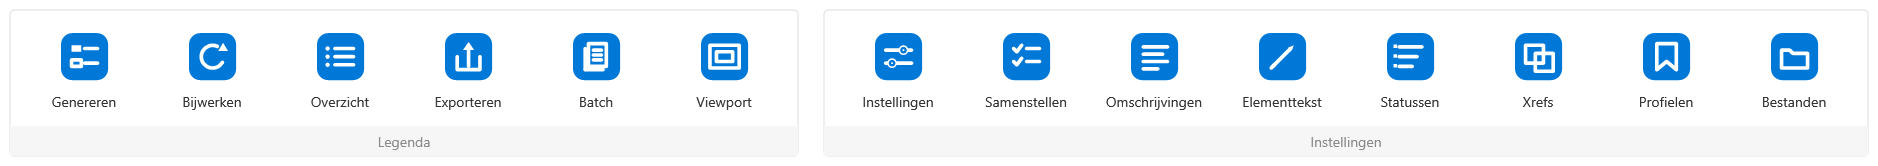
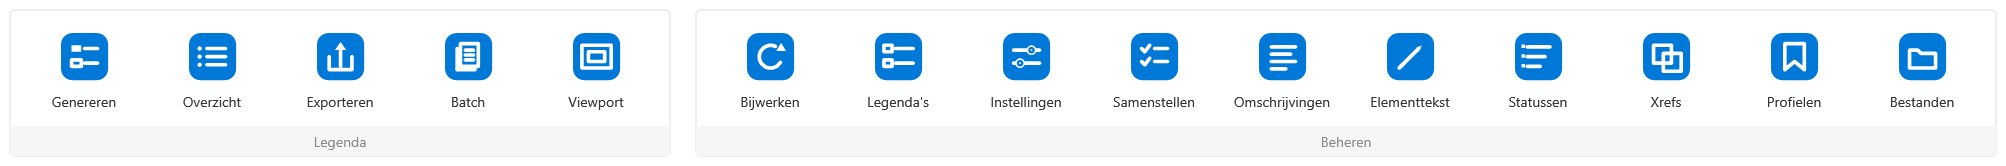
Versie 1.14.0: documentatie, changelog, lint en tests bijwerken

diff --git a/tests/NlcsLegenda.Core.Tests/LegendDomainTests.cs b/tests/NlcsLegenda.Core.Tests/LegendDomainTests.cs
@@ -1,0 +1,73 @@
+using NlcsLegenda.Core;
+using Xunit;
+
+namespace NlcsLegenda.Core.Tests;
+
+public class LegendDomainTests
+{
+    [Fact]
+    public void ManualEntry_Clone_IsIndependent()
+    {
+        var a = new ManualEntry { Layer = "N-WE-VH-X-G", Type = NlcsDrawType.Vlakvulling, Description = "A", SymbolBlock = "B" };
+        var b = a.Clone();
+        b.Description = "B";
+        b.Type = NlcsDrawType.Symbool;
+        Assert.Equal("A", a.Description);
+        Assert.Equal(NlcsDrawType.Vlakvulling, a.Type);
+    }
+
+    [Fact]
+    public void CustomStatus_Clone_IsIndependent()
+    {
+        var a = new CustomStatus { Name = "S", Members = { "x", "y" } };
+        var b = a.Clone();
+        b.Members.Add("z");
+        b.Name = "T";
+        Assert.Equal(2, a.Members.Count);
+        Assert.Equal("S", a.Name);
+    }
+
+    [Theory]
+    [InlineData(LegendScope.WholeDrawing, "hele tekening")]
+    [InlineData(LegendScope.Selection, "selectie")]
+    public void Scope_ToDisplay(LegendScope scope, string expected) =>
+        Assert.Equal(expected, scope.ToDisplay());
+
+    [Fact]
+    public void Registry_MixedScopes_Roundtrip()
+    {
+        var reg = new LegendRegistry();
+        reg.Add(new LegendDefinition { Name = "Heel", Scope = LegendScope.WholeDrawing, GroupName = "g1" });
+        reg.Add(new LegendDefinition
+        {
+            Name = "Sel",
+            Scope = LegendScope.Selection,
+            GroupName = "g2",
+            SourceHandles = { "A", "1B", "2C3" }
+        });
+
+        Assert.True(LegendRegistry.TryParse(reg.ToJson(), out var restored, out _));
+        Assert.Equal(LegendScope.WholeDrawing, restored.Legends[0].Scope);
+        Assert.Equal(LegendScope.Selection, restored.Legends[1].Scope);
+        Assert.Equal(3, restored.Legends[1].SourceHandles.Count);
+    }
+
+    [Fact]
+    public void Registry_NormalizesNullCollections()
+    {
+        // JSON zonder legends-array en zonder sourceHandles.
+        const string json = """{ "schemaVersion": 1 }""";
+        Assert.True(LegendRegistry.TryParse(json, out var reg, out _));
+        Assert.NotNull(reg.Legends);
+        Assert.Empty(reg.Legends);
+    }
+
+    [Fact]
+    public void Definition_KeepsIdAcrossRename()
+    {
+        var def = new LegendDefinition { Name = "Oud", GroupName = "g" };
+        var id = def.Id;
+        def.Name = "Nieuw";
+        Assert.Equal(id, def.Id);
+    }
+}

diff --git a/README.md b/README.md
@@ -14,20 +14,28 @@ zitten en zet daar de bijbehorende legenda bij, in dezelfde stijl.
 ## Zo werkt het
 
 Start `NLCSLEGENDA`. Je kunt eerst nog de schaal of een paar opties zetten; daarna
-hangt de legenda aan je cursor en zet je hem naast de tekening neer. Alles komt als
-losse objecten in de model space, op de eigen NLCS-lagen, dus kleur en lijntype
-kloppen meteen. Wie liever klikt dan typt vindt in het lint een tab **NLCS Legenda**
-met dezelfde functies.
+hangt de legenda aan je cursor en zet je hem naast de tekening neer. Standaard maakt hij
+een legenda van de hele tekening; kies je in het optiemenu `Selecteren`, dan komt er een
+legenda van alleen die selectie. Alles komt als losse objecten in de model space, op de
+eigen NLCS-lagen, dus kleur en lijntype kloppen meteen. Wie liever klikt dan typt vindt
+in het lint een tab **NLCS Legenda** met dezelfde functies.
 
-Is het ontwerp veranderd, dan tekent `NLCSLEGENDAUPDATE` de legenda opnieuw op
-precies dezelfde plek. `NLCSLEGENDAVIEWPORT` maakt er in de paper space een viewport
-omheen op de ingestelde schaal.
+Je kunt meerdere legenda's naast elkaar in één tekening hebben, bijvoorbeeld één voor de
+hele tekening en aparte legenda's voor deelgebieden. Elke legenda onthoudt zijn eigen
+bron (hele tekening of selectie) en zijn eigen instellingen. `NLCSLEGENDABEHEER` toont de
+legenda's en laat je ze bijwerken, hernoemen, opzoeken (zoomen) en verwijderen.
 
-De teksten en opmaak liggen niet vast. Bijna alles is aan te passen: de titel, de
-statuskoppen, de eenheden, de tekst per element. Instellingen bewerk je met
-`NLCSLEGENDAOPTIES`, de omschrijvingen met `NLCSLEGENDAOMSCHRIJVINGEN`, en
-`NLCSLEGENDATEKST` past de tekst van één aangeklikt element aan. Wat je wijzigt blijft
-bij een volgende update behouden.
+Is het ontwerp veranderd, dan tekent `NLCSLEGENDAUPDATE` de legenda opnieuw op precies
+dezelfde plek. Is er één legenda, dan gaat dat direct; bij meerdere klik je de gewenste
+legenda aan (of kies je uit een lijst). Een selectielegenda wordt daarbij opnieuw van
+diezelfde selectie opgebouwd, niet van de hele tekening. `NLCSLEGENDAVIEWPORT` maakt in
+de paper space een viewport rond de gekozen legenda op de ingestelde schaal.
+
+De globale instellingen zijn het startpunt voor een **nieuwe** legenda. Zet je later de
+globale standaard anders, dan verandert een bestaande legenda niet mee: die houdt de
+instellingen waarmee hij is gemaakt. Instellingen bewerk je met `NLCSLEGENDAOPTIES`, de
+omschrijvingen met `NLCSLEGENDAOMSCHRIJVINGEN`, en `NLCSLEGENDATEKST` past de tekst van
+één aangeklikt element aan.
 
 Onder de legenda komen standaard een meeschalende schaalbalk en een opmerkingenblok.
 Allebei kun je uitzetten of aanpassen.
@@ -66,8 +74,9 @@ importeren, zodat je een opzet met collega's kunt delen.
 
 | Commando | Doet |
 |----------|------|
-| `NLCSLEGENDA` | Legenda genereren en met de muis plaatsen. |
-| `NLCSLEGENDAUPDATE` | De legenda opnieuw tekenen op dezelfde plek. |
+| `NLCSLEGENDA` | Legenda genereren en met de muis plaatsen (hele tekening of selectie). |
+| `NLCSLEGENDAUPDATE` | Een legenda opnieuw tekenen op dezelfde plek; bij meerdere kies je welke. |
+| `NLCSLEGENDABEHEER` | Legenda's bekijken, bijwerken, hernoemen, opzoeken en verwijderen. |
 | `NLCSLEGENDAINFO` | Tonen wat erin zou komen (aantallen, lengtes, oppervlakten, totalen per hoofdgroep) en welke regels nog een eigen omschrijving missen, zonder te tekenen. |
 | `NLCSLEGENDAEXPORT` | De regels wegschrijven als CSV en JSON, met hoeveelheden en de herkomst van elke omschrijving. |
 | `NLCSLEGENDABATCH` | Alle DWG's in een map samen in één uittrekstaat (CSV/JSON) met een kolom Tekening. |
@@ -75,7 +84,7 @@ importeren, zodat je een opzet met collega's kunt delen.
 | `NLCSLEGENDAOPTIES` | Alle instellingen bewerken in een venster (schaal, teksten, opmaak). |
 | `NLCSLEGENDAOMSCHRIJVINGEN` | De omschrijvingen per element bewerken in een tabel. |
 | `NLCSLEGENDATEKST` | Klik een element aan en pas de tekst ervan aan (meerdere regels mogelijk). |
-| `NLCSLEGENDABEHEER` | Regels uitvinken en eigen regels toevoegen in één venster. |
+| `NLCSLEGENDASAMENSTELLEN` | Regels uitvinken en eigen regels toevoegen in één venster. |
 | `NLCSLEGENDAUITVINKEN` | Klik een element aan om die regel uit de legenda te laten. |
 | `NLCSLEGENDATOEVOEGEN` | Een eigen regel toevoegen (type, laag en omschrijving zelf kiezen). |
 | `NLCSLEGENDASTATUS` | Eigen statussen maken en er regels aan toewijzen (naast Nieuw/Bestaand/...). |

diff --git a/CHANGELOG.md b/CHANGELOG.md
@@ -1,5 +1,22 @@
 # Changelog
 
+## 1.14.0 - 2026-09-23
+
+- Meerdere legenda's kunnen naast elkaar in één tekening staan, elk met een eigen bron
+  en eigen instellingen.
+- Een legenda wordt gemaakt van de hele tekening of van een opgeslagen selectie; bij
+  bijwerken houdt hij die bron aan.
+- Bij meerdere legenda's kies je bij het bijwerken welke wordt vernieuwd (of werk alles
+  bij); een legenda die geen regels meer oplevert wordt niet stil verwijderd.
+- `NLCSLEGENDABEHEER` beheert de legenda's: bekijken, bijwerken, hernoemen, opzoeken en
+  verwijderen. De oude samenstel-dialoog heet nu `NLCSLEGENDASAMENSTELLEN`.
+- Globale instellingen zijn het startpunt voor nieuwe legenda's; een bestaande legenda
+  verandert niet mee als de globale standaard later wijzigt.
+- Viewport en export richten zich op de gekozen legenda. Geplaatste legenda's tellen niet
+  meer mee als brondata bij het analyseren, ook niet in de batch-uittrekstaat.
+- Hoeveelheden kloppen nu ook bij een blok dat meerdere keren is ingevoegd en bij
+  geschaalde of geroteerde blokken.
+
 ## 1.13.0 - 2026-09-22
 
 Genereert uit de NLCS-lagen van een Civil 3D- of AutoCAD-tekening automatisch een
